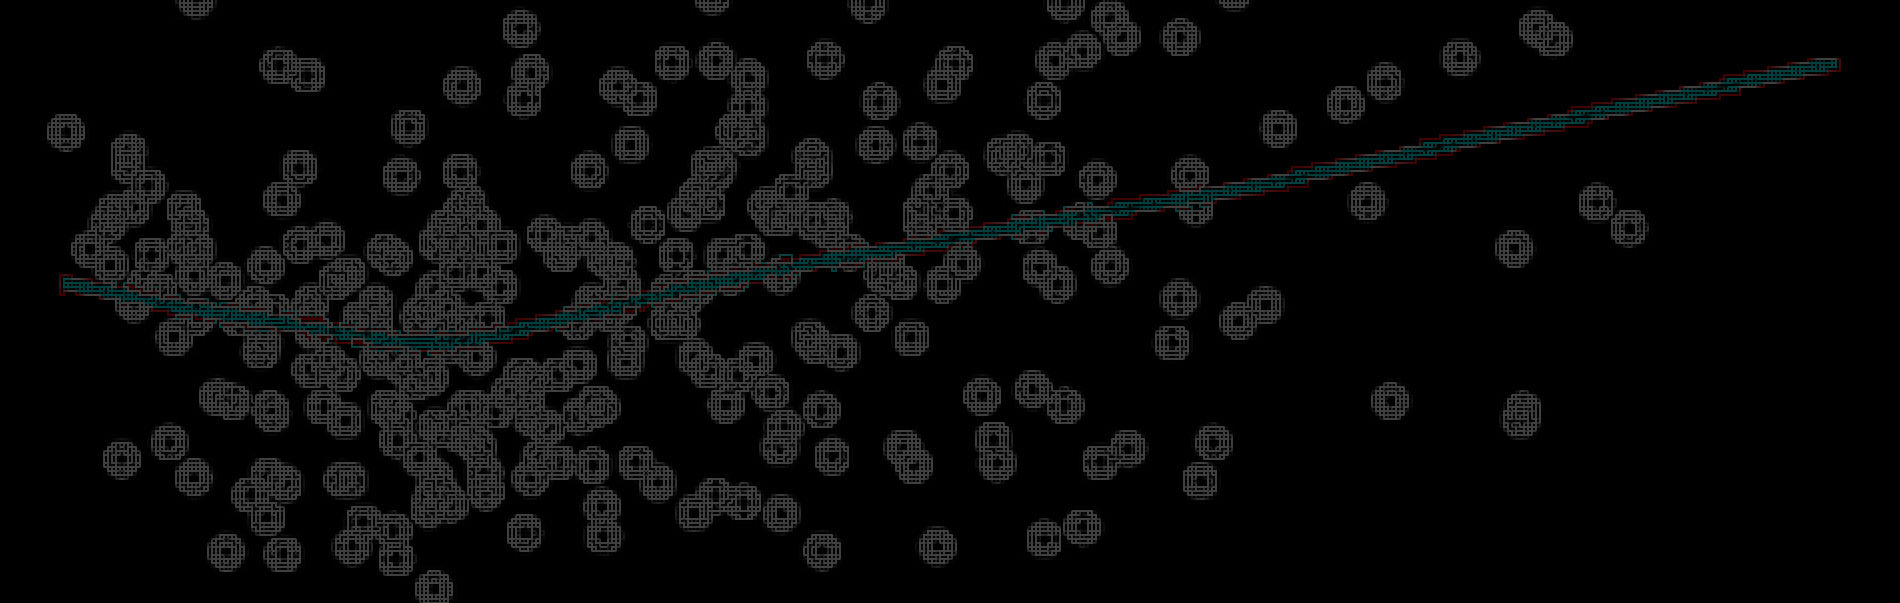
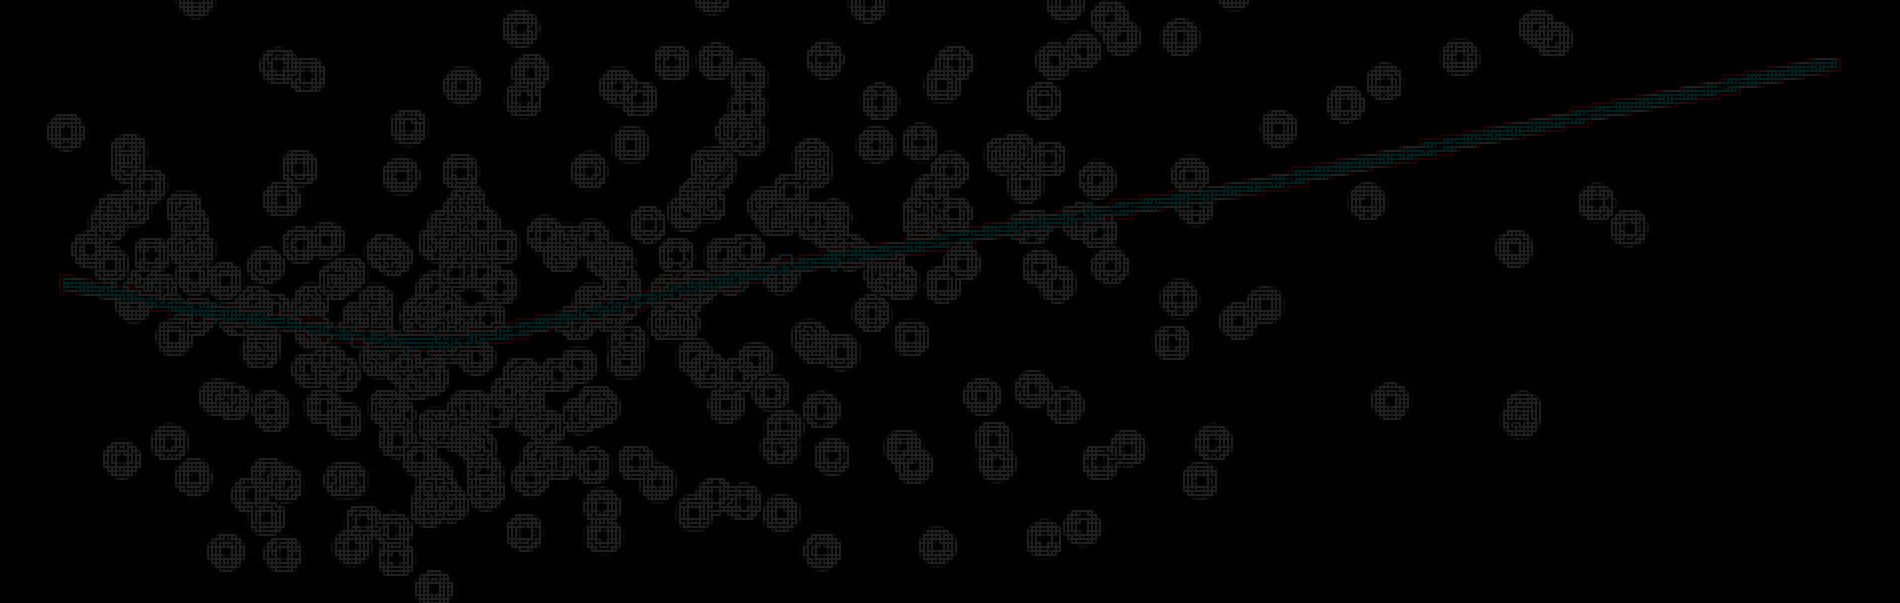
updated index and older posts with new content, modified brightness of mlr_r header image

diff --git a/index.html b/index.html
@@ -90,15 +90,15 @@
         <div class="row">
             <div class="col-lg-8 col-lg-offset-2 col-md-10 col-md-offset-1">
                 <div class="post-preview">
-                    <a href="blogs/bitcoin_labor/bitcoin_labor.html">
+                    <a href="blogs/mlr_r/mlr_r.html">
                         <h2 class="post-title">
-                            The Bitcoin Labor Economy
+                            Multiple Linear Regression
                         </h2>
                         <h3 class="post-subtitle">
-                            Global Footprint and Issues of Access
+                            Foreclosure Analysis in R
                         </h3>
                     </a>
-                    <p class="post-meta">Posted by <a href="about.html">Joe Blankenship</a> on March 28, 2018</p>
+                    <p class="post-meta">Posted by <a href="about.html">Joe Blankenship</a> on April 29, 2018</p>
                 </div>
                 <hr>
                 <!-- Pager -->

diff --git a/older.html b/older.html
@@ -90,6 +90,17 @@
         <div class="row">
             <div class="col-lg-8 col-lg-offset-2 col-md-10 col-md-offset-1">
                 <div class="post-preview">
+                    <a href="blogs/bitcoin_labor/bitcoin_labor.html">
+                        <h2 class="post-title">
+                            The Bitcoin Labor Economy
+                        </h2>
+                        <h3 class="post-subtitle">
+                            Global Footprint and Issues of Access
+                        </h3>
+                    </a>
+                    <p class="post-meta">Posted by <a href="about.html">Joe Blankenship</a> on March 28, 2018</p>
+                </div>
+                <div class="post-preview">
                     <a href="blogs/frontend_dev/frontend_dev.html">
                         <h2 class="post-title">
                             Design for the Hopeless
